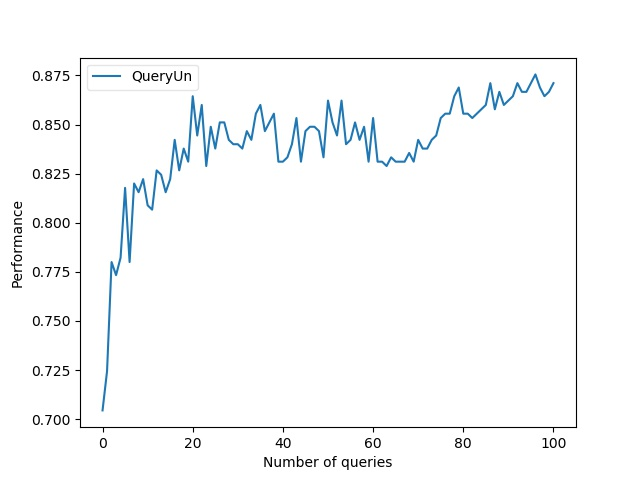
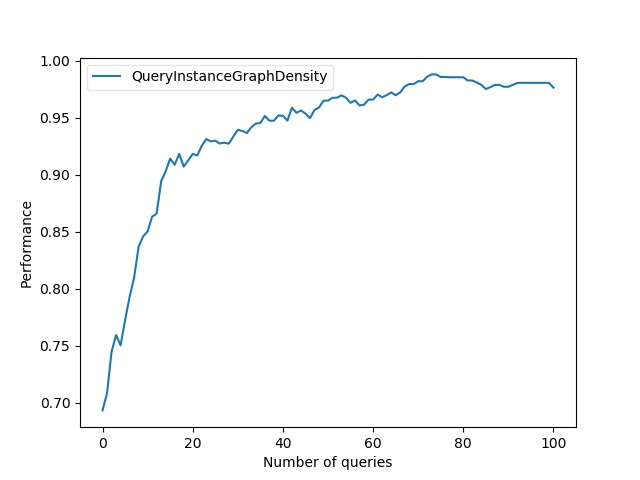
'problem'

diff --git a/Acepy/acepy/experiment/al_experiment.py b/Acepy/acepy/experiment/al_experiment.py
@@ -85,12 +85,10 @@ class AlExperiment:
         self._split = False
         self._metrics = False
         self._split_count = 0
+        self._query_function_need_train_ind = False
 
         self._X, self._y = check_X_y(X, y, accept_sparse='csc', multi_output=True)
         self._model = model
-        # set default performance metric 
-        self._performance_metric_name = performance_metric
-        self._performance_metric = accuracy_score
         self._experiment_result = []
         # set split in the initial
         train_idx = kwargs.pop('train_idx', None)
@@ -113,7 +111,7 @@ class AlExperiment:
 
     def set_query_strategy(self, strategy="QueryInstanceUncertainty", **kwargs):
         """
-
+            Set the query strategy of 
         Parameters
         ----------
         strategy: {str, callable}, optional (default='QueryInstanceUncertainty')
@@ -152,23 +150,20 @@ class AlExperiment:
                 if strategy == 'QueryInstanceQBC':
                     method = kwargs.pop('method', None)
                     disagreement = kwargs.pop('disagreement', None)
-                    self._query_function = acepy.query_strategy.query_strategy.QueryInstanceQBC(self._X, self._y, method, disagreement, scenario)
+                    self._query_function = acepy.query_strategy.query_strategy.QueryInstanceQBC(self._X, self._y, method, disagreement)
                 elif strategy == 'QueryInstanceUncertainty':
                     measure = kwargs.pop('measure', None)
                     self._query_function = acepy.query_strategy.query_strategy.QueryInstanceUncertainty(self._X, self._y, measure)
                 elif strategy == 'QueryRandom':
-                    self._query_function = acepy.query_strategy.query_strategy.QueryRandom(self._X, self._y, kwargs)
+                    self._query_function = acepy.query_strategy.query_strategy.QueryRandom(self._X, self._y)
                 elif strategy == 'QureyExpectedErrorReduction':
                     self._query_function = acepy.query_strategy.query_strategy.QureyExpectedErrorReduction(self._X, self._y)
-                elif strategy == 'QueryInstanceGraphDensity':
+                elif strategy == 'QueryInstanceGraphDensity' or strategy == 'QueryInstanceQUIRE':
                     if self._train_idx is None:
                         raise ValueError('train_idx is None.Please split data firstly.You can call set_data_split or split_AL to split data.')
-                    metric = kwargs.pop('metric', None)
-                    self._query_function = acepy.query_strategy.sota_strategy.QueryInstanceGraphDensity(self._X, self._y, self._train_idx, metric)
-                elif strategy == 'QueryInstanceQUIRE':
-                    if self._train_idx is None:
-                        raise ValueError('train_idx is None.Please split data firstly.You can call set_data_split or split_AL to split data.')
-                    self._query_function = acepy.query_strategy.sota_strategy.QueryInstanceQUIRE(self._X, self._y, self._train_idx, kwargs)
+                    self._query_function_need_train_ind = True
+                    self._query_function_metric = kwargs.pop('metric', 'manhattan')
+                    self._query_function_kwargs = kwargs
      
     def set_performance_metric(self, performance_metric='accuracy_score'):
         """
@@ -259,9 +254,15 @@ class AlExperiment:
             all_class=all_class)
         return self._train_idx, self._test_idx, self._label_idx, self._unlabel_idx
 
-    def start_query(self, multi_thread=True):
+    def start_query(self, multi_thread=True, **kwargs):
         """Start the active learning main loop
         If using implemented query strategy, It will run in multi-thread default
+
+        Parameters
+        ----------
+        multi_thread: bool, optional (default=True)
+            Decide whether to run in multi-thread.
+        kwargs: set,optional
 
         """
         if not self._split:
@@ -269,15 +270,26 @@ class AlExperiment:
                             "or use split_AL() to generate new split.")   
         if not self._metrics:
             raise Exception("Performance_Metrics is unknown." 
-                    " Use set_performance_metric() to define a performance_metrics.")                      
+                    " Use set_performance_metric() to define a performance_metrics.")      
+        
         if multi_thread:
-            ace = aceThreading(self._X, self._y, self._train_idx, self._test_idx, self._label_idx, self._unlabel_idx)
+            max_thread = kwargs.pop('max_thread', None)
+            refresh_interval = float(kwargs.pop('refresh_interval', 1.0))
+            saving_path = kwargs.pop('saving_path', '.')
+            ace = aceThreading(self._X, self._y, self._train_idx, self._test_idx, 
+                                self._label_idx, self._unlabel_idx)
             ace.set_target_function(self.__al_main_loop)
             ace.start_all_threads()
             self._experiment_result = ace.get_results()
         else:
+            initial_point = kwargs.pop('initial_point', None)
+            saving_path = kwargs.pop('saving_path', None)
+            check_flag = kwargs.pop('check_flag', True)
+            verbose = kwargs.pop('verbose', True)
+            print_interval = kwargs.pop('print_interval', 1)
             for round in range(self._split_count):
-                saver = StateIO(round, self._train_idx[round], self._test_idx[round], self._label_idx[round], self._unlabel_idx[round])
+                saver = StateIO(round, self._train_idx[round], self._test_idx[round], self._label_idx[round], 
+                            self._unlabel_idx[round], initial_point, saving_path, check_flag, verbose, print_interval)
                 self.__al_main_loop(round, self._train_idx[round], self._test_idx[round], self._label_idx[round], self._unlabel_idx[round], saver)
                 self._experiment_result.append(copy.deepcopy(saver))
                 
@@ -291,11 +303,25 @@ class AlExperiment:
         self._model.fit(X=self._X[Lcollection.index, :], y=self._y[Lcollection.index])
         pred = self._model.predict(self._X[test_id, :])
 
+
+        # some query strategy,such as QueryInstanceGraphDensity,QueryInstanceQUIRE, need train_ind
+        if self._query_function_need_train_ind:
+            if self._query_function_name == 'QueryInstanceGraphDensity':
+                if self._query_function_metric is not None:
+                    self._query_function = acepy.query_strategy.sota_strategy.QueryInstanceGraphDensity(self._X, self._y, train_id, self._query_function_metric)
+                else:
+                    raise Exception("The QueryInstanceGraphDensity need metric.Please input metric in set_query_strategy().")
+            elif self._query_function_name == 'QueryInstanceQUIRE':
+                # self._query_function = acepy.query_strategy.sota_strategy.QueryInstanceQUIRE(self._X, self._y, train_id, self._query_function_kwargs)
+                self._query_function = acepy.query_strategy.sota_strategy.QueryInstanceQUIRE(self._X, self._y, train_id)
+
         # performance calc
         perf_result = self._performance_metric(pred, self._y[test_id])
 
+        # stopping-criterion 
+        stopping_criterion = copy.deepcopy(self._stopping_criterion)
         saver.set_initial_point(perf_result)
-        while not self._stopping_criterion.is_stop():
+        while not stopping_criterion.is_stop():
             if not self.__custom_strategy_flag:
                 if 'model' in inspect.getfullargspec(self._query_function.select)[0]:
                     select_ind = self._query_function.select(Lcollection, Ucollection, batch_size=self._batch_size,
@@ -319,8 +345,8 @@ class AlExperiment:
             saver.add_state(st)
             saver.save()
             # update stopping_criteria
-            self._stopping_criterion.update_information(saver)
-        self._stopping_criterion.reset()
+            stopping_criterion.update_information(saver)
+        # self._stopping_criterion.reset()
 
     def get_experiment_result(self, title=None):
         """

diff --git a/Acepy/test.py b/Acepy/test.py
@@ -4,6 +4,7 @@ from sklearn.datasets import make_classification
 
 from acepy.experiment.state import State
 from acepy.query_strategy.query_strategy import (QueryInstanceQBC)
+from acepy.query_strategy.sota_strategy import QueryInstanceQUIRE,QueryInstanceGraphDensity
 from acepy.utils.toolbox import ToolBox
 
 X, y = make_classification(n_samples=150, n_features=20, n_informative=2, n_redundant=2,
@@ -23,6 +24,7 @@ stopping_criterion = acebox.get_stopping_criterion('num_of_queries', 50)
 
 # use pre-defined strategy, The data matrix is a reference which will not use additional memory
 QBCStrategy = QueryInstanceQBC(X, y)
+
 
 QBC_result = []
 for round in range(split_count):
@@ -56,8 +58,75 @@ for round in range(split_count):
     stopping_criterion.reset()
     QBC_result.append(copy.deepcopy(saver))
 
+QUIRE_result = []
+for round in range(split_count):
+    train_idx, test_idx, Lind, Uind = acebox.get_split(round)
+    # saver = acebox.StateIO(round)
+    saver = acebox.get_stateio(round)
+
+    QUIRE = QueryInstanceQUIRE(X, y, train_idx)
+    # calc the initial point
+    model.fit(X=X[Lind.index, :], y=y[Lind.index])
+    pred = model.predict(X[test_idx, :])
+    accuracy = sum(pred == y[test_idx]) / len(test_idx)
+
+    saver.set_initial_point(accuracy)
+    while not stopping_criterion.is_stop():
+        select_ind = QUIRE.select(Lind, Uind)
+        Lind.update(select_ind)
+        Uind.difference_update(select_ind)
+
+        # update model and calc performance
+        model.fit(X=X[Lind.index, :], y=y[Lind.index])
+        pred = model.predict(X[test_idx, :])
+        accuracy = sum(pred == y[test_idx]) / len(test_idx)
+
+        # save intermediate result
+        st = State(select_index=select_ind, performance=accuracy)
+        saver.add_state(st)
+        saver.save()
+
+        # update stopping_criteria
+        stopping_criterion.update_information(saver)
+    stopping_criterion.reset()
+    QUIRE_result.append(copy.deepcopy(saver))
+
+QIGD_result = []
+for round in range(split_count):
+    train_idx, test_idx, Lind, Uind = acebox.get_split(round)
+    # saver = acebox.StateIO(round)
+    saver = acebox.get_stateio(round)
+
+    QIGD = QueryInstanceGraphDensity(X, y, train_idx)
+    # calc the initial point
+    model.fit(X=X[Lind.index, :], y=y[Lind.index])
+    pred = model.predict(X[test_idx, :])
+    accuracy = sum(pred == y[test_idx]) / len(test_idx)
+
+    saver.set_initial_point(accuracy)
+    while not stopping_criterion.is_stop():
+        select_ind = QIGD.select(Lind, Uind)
+        Lind.update(select_ind)
+        Uind.difference_update(select_ind)
+
+        # update model and calc performance
+        model.fit(X=X[Lind.index, :], y=y[Lind.index])
+        pred = model.predict(X[test_idx, :])
+        accuracy = sum(pred == y[test_idx]) / len(test_idx)
+
+        # save intermediate result
+        st = State(select_index=select_ind, performance=accuracy)
+        saver.add_state(st)
+        saver.save()
+
+        # update stopping_criteria
+        stopping_criterion.update_information(saver)
+    stopping_criterion.reset()
+    QIGD_result.append(copy.deepcopy(saver))
+
 analyser = acebox.get_experiment_analyser()
-print('type of QBC_result:', type(QBC_result))
 analyser.add_method('QBC', QBC_result)
+analyser.add_method('QUIRE', QUIRE_result)
+analyser.add_method('QIGD', QIGD_result)
 print(analyser)
 analyser.plot_learning_curves(title='make_classification')

diff --git a/Acepy/test_alexperiment.py b/Acepy/test_alexperiment.py
@@ -12,15 +12,20 @@ X, y = make_classification(n_samples=150, n_features=20, n_informative=2, n_redu
 
 al = AlExperiment(X, y)
 al.split_AL()
-user_query = QueryInstanceUncertainty
-print(callable(user_query))
-if callable(user_query):
-    print("callable")
-    al.set_query_strategy(user_query, strategyname='QueryUn')
-else:
-    al.set_query_strategy(strategy="QueryInstanceUncertainty", measure='entropy')
+# user_query = QueryInstanceUncertainty
+# print(callable(user_query))
+# if callable(user_query):
+#     print("callable")
+#     al.set_query_strategy(user_query, strategyname='QueryUn')
+# else:
+#     al.set_query_strategy(strategy="QueryInstanceUncertainty", measure='entropy')
+
+# al.set_query_strategy(strategy="QueryInstanceUncertainty", measure='entropy')
+# al.set_query_strategy('QueryInstanceQUIRE')
+
+al.set_query_strategy('QueryInstanceGraphDensity', metric='manhattan')
+al.set_performance_metric('roc_auc_score')
 
 # al.start_query(multi_thread=False)
-al.set_performance_metric()
 al.start_query()
 al.get_experiment_result()
